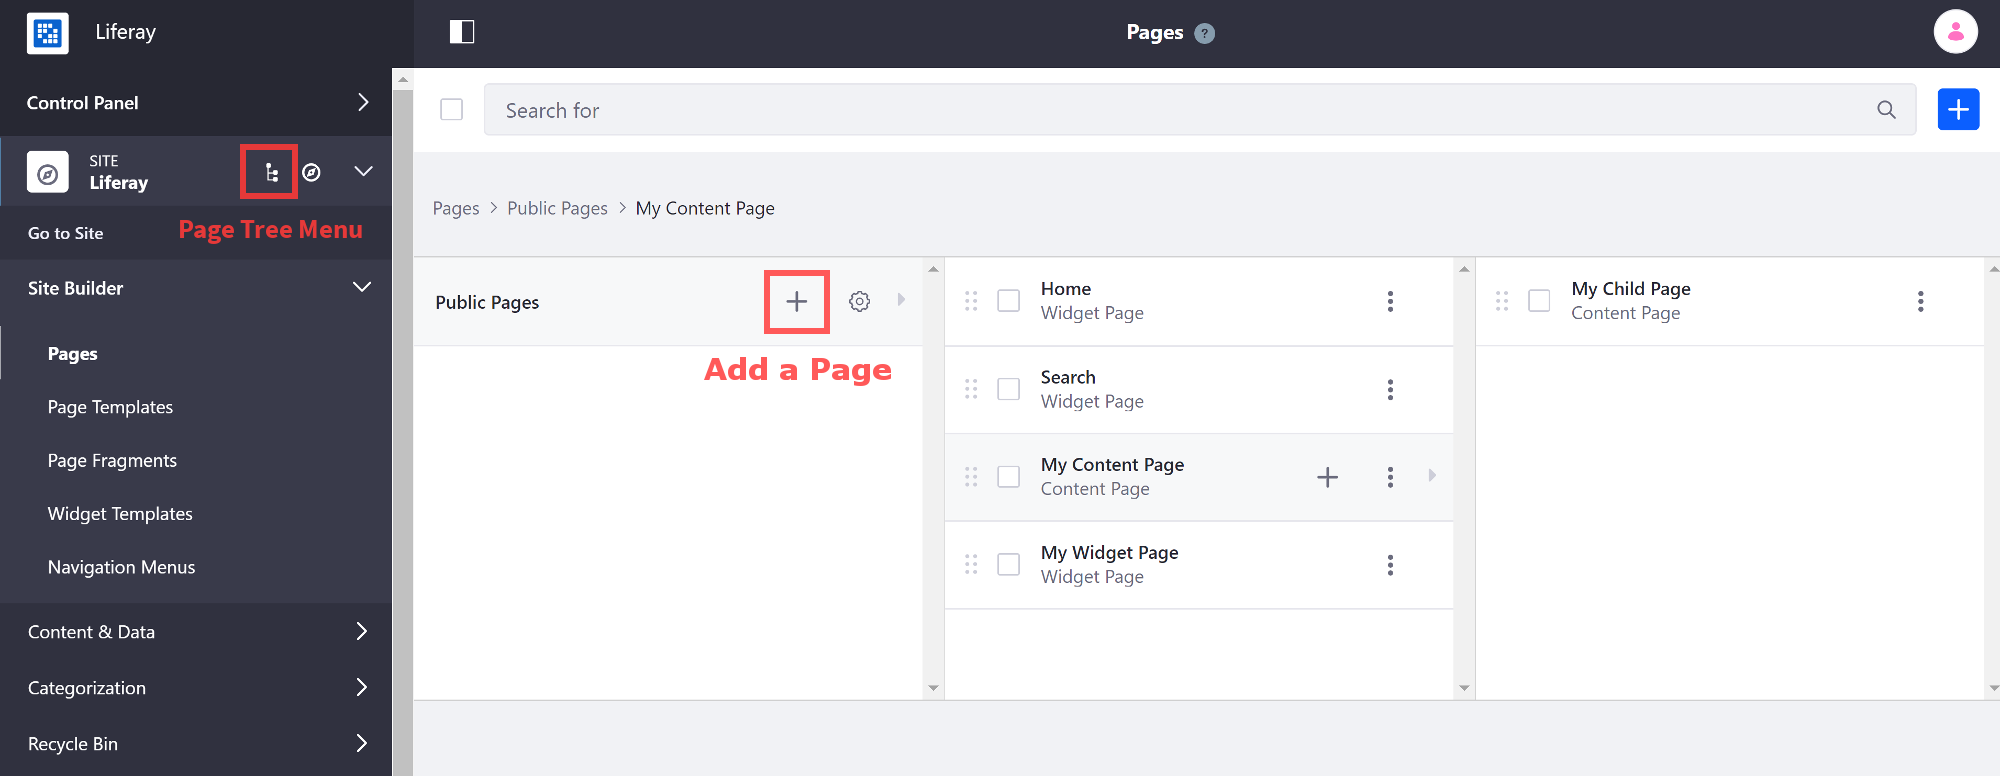
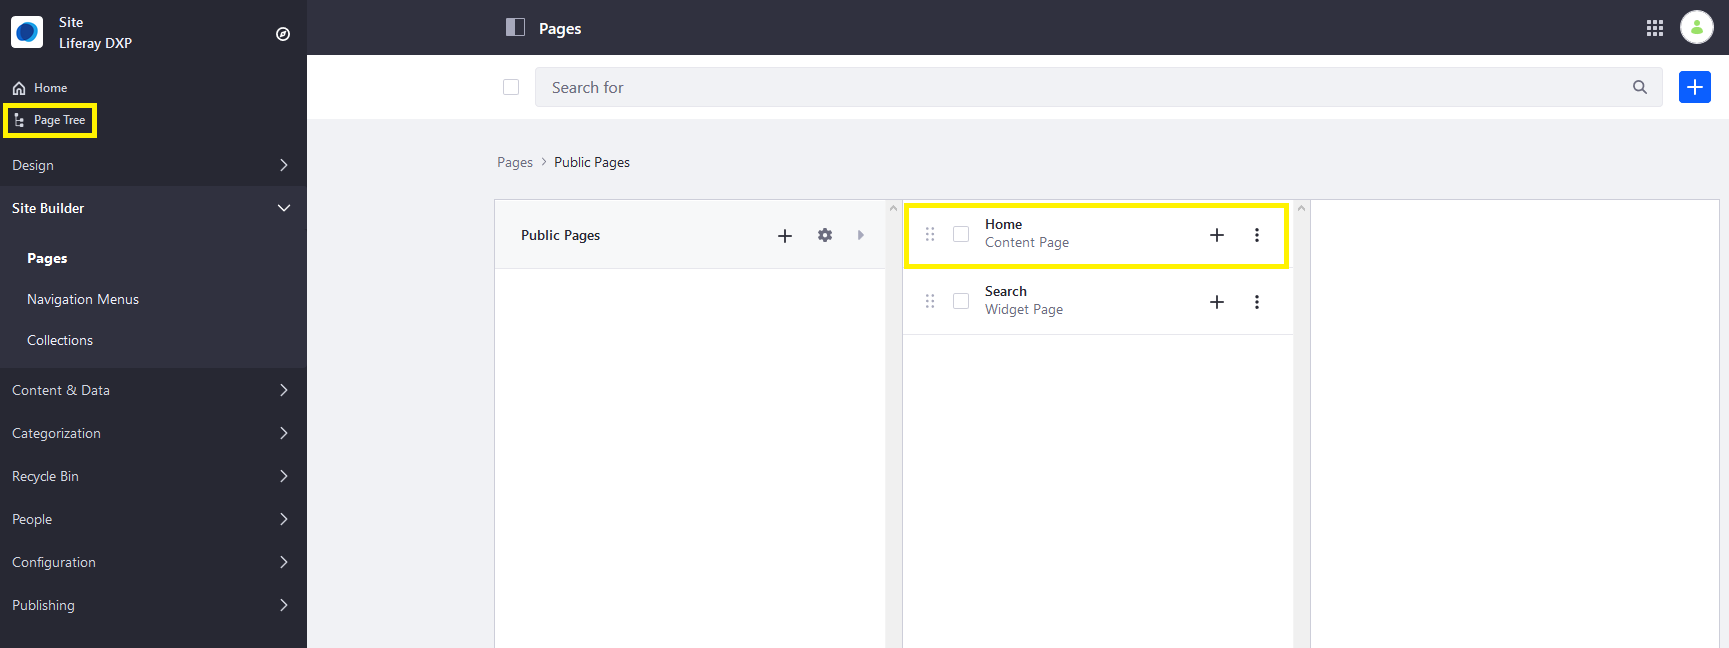
LRDOCS-7549 - resolve Landing page conflict

diff --git a/docs/dxp/7.x/en/content-authoring-and-management/landing.html b/docs/dxp/7.x/en/content-authoring-and-management/landing.html
@@ -63,20 +63,19 @@
 					]
 				},
 				{
-					sectionName: 'Content Sets',
-					sectionURL: 'content-authoring-and-management/content_sets.html',
-					showAll: false,
+					sectionName: 'Collections',
+					sectionURL: 'content-authoring-and-management/collections.html',
 					subsections: [
 						{
-							name: 'Understanding Content Sets (Coming Soon)',
+							name: 'Understanding Collections (Coming Soon)',
 							url: ''
 						},
 						{
-							name: 'Manually and Dynamically Creating a Content Set (Coming Soon)',
+							name: 'Manually and Dynamically Creating a Collections (Coming Soon)',
 							url: ''
 						},
 						{
-							name: 'Driving Personalization with Content Sets (Coming Soon)',
+							name: 'Driving Personalization with Collections (Coming Soon)',
 							url: ''
 						},
 					]

diff --git a/docs/dxp/7.x/en/site-building/landing.html b/docs/dxp/7.x/en/site-building/landing.html
@@ -67,8 +67,16 @@
 					showAll: false,
 					subsections: [
 						{
-							name: 'Configuring Site Navigation (Coming Soon)',
-							url: ''
+							name: 'Configuring Site Navigation',
+							url: 'site-building/site-navigation/configuring-site-navigation.html'
+						},
+						{
+							name: 'Using Navigation Menus',
+							url: 'site-building/site-navigation/using-navigation-menus.html'
+						},
+						{
+							name: 'Navigation Menu Widget Reference',
+							url: 'site-building/site-navigation/navigation-menu-widget-reference.html'
 						},
 					]
 				},

diff --git a/docs/dxp/7.x/en/site-building/site-navigation/using-navigation-menus.md b/docs/dxp/7.x/en/site-building/site-navigation/using-navigation-menus.md
@@ -1,0 +1,87 @@
+# Using Navigation Menus
+
+Users can create _Navigation Menus_ which groups the desired site pages. For example, users can create a _Navigation Menu_ which contains all the child pages of a given page. They can then add this menu using the _Navigation Menu_ widget to the parent page; that way, site visitors can quickly reach a particular child page.
+
+## Creating Navigation Menus
+
+To create a new _Navigation Menu_:
+
+1. Navigate to your site's _Site Administration_ &rarr; _Site Builder_ &rarr; _Navigation Menus_.
+1. Click the _Add_ button (![Add Page](../../images/icon-add.png)) to add a new menu.
+1. Enter a name: (for example: _New Menu_).
+
+    ![Create a new navigation menu.](./using-navigation-menus/images/01.png)
+
+1. Click _Save_ when finished.
+
+The new _Navigation Menu_ has been created.
+
+## Assigning Existing Pages to a Navigation Menu
+
+There are two main ways to assign existing pages to a _Navigation Menu_: click _New_ button or the _Add_ button (![Add Page](../../images/icon-add.png)).
+
+1. Click _New_ &rarr; _Page_.
+
+    ![Create a new Navigation Menu.](./using-navigation-menus/images/02.png)
+
+1. Select the pages to be included into this _Navigation Menu_; in this example, three child pages from the _Private Pages_ are to be included.
+
+    ![Select the pages to be included in the Navigation Menu.](./using-navigation-menus/images/03.png)
+
+1. Click _Add_ when finished.
+1. Verify that the new Navigation Menu has been created.
+
+    ![Verify that the new Navigation Menu has the child pages.](./using-navigation-menus/images/04.png)
+
+## Assigning New Pages to a Navigation Menu
+
+Users do not have to [create any site pages](../creating-pages/adding-pages/adding-a-page-to-a-site.md) before creating _Navigation Menus_. Rather, they can create a Navigation Menu first and then assign the pages later. If there are more than one, choose the appropriate menus.
+
+![Pages can be added automatically to existing Navigation Menus.](./using-navigation-menus/images/06.png)
+
+Moreover, by default, new pages can be automatically assigned to a _Navigation Menu_ unless the user deselects it. Users can disable this automatic assignment.
+
+To disable new pages being automatically to a _Navigation Menu_:
+
+1. Click the (![Options](../../images/icon-options.png)) icon next to the desired _Navigation Menu_ (for example, _New Menu_) then _Edit_.
+1. Click the (![Gears](../../images/icon-control-menu-gear.png)) icon.
+1. Uncheck the box.
+
+    ![Disable the setting where pages are automatically added to this Navigation Menu.](./using-navigation-menus/images/05.png)
+
+1. Click _Save_ when finished.
+
+Once disabled, users do not see the prompt to add the page to a _Navigation Menu_.
+
+![Disable the setting where pages are automatically added to this Navigation Menu.](./using-navigation-menus/images/08.png)
+
+## Marking a Navigation Menu
+
+Users can mark a Navigation Menu as one of the following:
+
+* *Primary Navigation*
+* *Secondary Navigation*
+* *Social Navigation*
+
+To mark as Navigation Menu:
+
+1. Click the (![Options](../../images/icon-options.png)) icon next to the desired _Navigation Menu_ (for example, _New Menu_)
+1. Click the desired navigation (for example, _Primary Navigation_).
+
+    ![Mark the Navigation Menu as Primary.](./using-navigation-menus/images/07.png)
+
+The Navigation Menu type is displayed in the _Marked As_ field. For more information about each type, see the [Navigation Menu Widget Reference](./navigation-menu-widget-reference.md#navigation-menu).
+
+## Deleting a Navigation Menu
+
+To delete a Navigation Menu:
+
+1. Click the (![Options](../../images/icon-options.png)) icon next to the desired _Navigation Menu_ (for example, _New Menu_) then _Delete_.
+1. Click _OK_ in the confirmation.
+
+The Navigation Menu has been deleted.
+
+## Additional Information
+
+* [Configuring Site Navigation](./configuring-site-navigation.md)
+* [Navigation Menu Widget Reference](./navigation-menu-widget-reference.md)

diff --git a/docs/dxp/7.x/en/site-building/site-navigation/navigation-menu-widget-reference.md b/docs/dxp/7.x/en/site-building/site-navigation/navigation-menu-widget-reference.md
@@ -1,0 +1,57 @@
+# Navigation Menu Widget Reference
+
+This reference article documents all the configurations on the _Navigation Menu_ widget that can be added to a Site Page. To access the _Configuration_ menu, click ![Options icon](../../images/icon-widget-options.png) at the top of the _Navigation Men_ widget.
+
+![Navigate to the Configuration menu.](./navigation-menu-widget-reference/images/01.png)
+
+## Navigation Menu
+
+Select the desired navigation menu type; the desired navigation menu type will be displayed in the Preview box.
+
+| Navigation Menu Type | Description |
+| --- | --- |
+| **Public Pages Hierarchy** | Public Pages Hierarchy is based on the default hierarchy in the Site Builder. |
+| **Primary Navigation** | Primary Navigation is the main navigation for a page. |
+| **Secondary Navigation** | Secondary Navigation is a second level of navigation, possibly a sidebar or a separate menu within a page. |
+| **Social Navigation** | Social Navigation is for menus that contain links for sharing content on social media or similar tasks. |
+  
+Alternately, users can choose a _Navigation Menu_ by clicking the _Select_ button.
+
+![Select the type of Navigation Menu.](./navigation-menu-widget-reference/images/02.png)
+
+## Display Templates
+
+The *Display Template* option lets you select an [Widget Template](../displaying-content/customizing-widgets/styling-widgets-with-widget-templates.md) for Navigation Menus. Users can choose from one of the following:
+
+![Select the Display Template.](./navigation-menu-widget-reference/images/03.png)
+
+| Display Template | Description |
+| --- | --- |
+| **List Menu** | Displays all the items in a vertical list. |
+| **Pills Horizontal** | Displays the items horizontally and uses a button style for highlighting. |
+| **Pills Justified** | Like Pills Horizontal, but pads the items to fill out the horizontal space. |
+| **Pills Stacked** | A vertical version of the pills style. |
+| **Tabs** | Displays the items like navigation tabs. |
+| **Tabs Justified** | Navigation tabs that fill horizontal space. |
+| **Bar Minimally Styled** | A lightweight version of the default display that you see in the embedded menu on your page. |
+| **Bar Minimally Justified Styled** | Like Bar Minimally Styled with horizontal padding. |
+| **Bar Default Styled** | The default embedded menu. |
+| **Split Button Dropdowns** | Displays each item as a button with a dropdown  for multiple navigation levels. |
+
+## Menu Items to Show
+
+This section configures which pages at what level from the menu are displayed in the widget. You can choose the starting level, how many levels deep to display, and how to display sub-levels.
+
+![Select the Menu Items to Show.](./navigation-menu-widget-reference/images/04.png)
+
+| Field | Description |
+| --- | --- |
+| **Start with Menu Items In** | Select the type of Level: choose from _Level_, _Level Relative to the Current Menu Item_, or _Select Parent_.  |
+| **Number of Levels** | Select the level number to display, from _0_ to _4_. Level 0 represents the parent page, Level 1 represents the first level child page, and so forth. |
+| **Levels to Display:** | Select the number of levels to display in the navigation, from _1_ down to _Unlimited_. |
+| **Expand Sublevels:** | Select _Auto_ or _All_ from this dropdown menu; this determines if hovering the mouse over the navigation reveals navigation levels one at a time automatically or reveal all the levels at once. |
+
+## Additional Information
+
+* [Using Navigation Menus](./using-navigation-menus.md)
+* [Configuring Site Navigation](./configuring-site-navigation.md)

diff --git a/docs/dxp/7.x/en/site-building/site-navigation/managing-page-hierarchies.md b/docs/dxp/7.x/en/site-building/site-navigation/managing-page-hierarchies.md
@@ -1,0 +1,64 @@
+# Managing Page Hierarchies
+
+Using the Page Hierarchy, you create public and private pages and organize those pages in whatever order or structure that you see fit.
+
+## Creating a Page
+
+New pages are created on the _Site Builder_ &rarr; _Pages_ page in _Site Administration_. Pages can be created as _Public Pages_ which anyone can view, or _Private Pages_ which can only be viewed by Site Members. See [Adding a Page to a Site](../creating-pages/adding-pages/adding-a-page-to-a-site.md) to learn how to add a page.
+
+Now that the page is created, it appears in the hierarchy, and you can move or organize its position there.
+
+## Organizing Pages
+
+Drag and drop pages to reorder their position in the page hierarchy (and subsequently the default navigation that users see) or to nest them as sub-pages. The page at the top of the list is the first page that users see automatically when visiting your Site. You can treat this as the site's landing page.
+
+### Reordering Pages
+
+To reorder your pages:
+
+1. Navigate to the your site's _Site Administration_.
+1. Click _Site Builder_ &rarr; _Pages_.
+
+    ![The Site Builder is where you can manage your pages.](./managing-page-hierarchies/images/01.png)
+
+1. Drag and drop _Page 2_ above _Page 3_ page.
+1. Click _Home_ to see the changes.
+
+    ![Page 2 is now before Page 3.](./managing-page-hierarchies/images/02.png)
+
+The page order has been changed.
+
+### Nesting Pages
+
+You can nest pages up to four levels. Follow the steps below:
+
+1. Navigate to the your site's _Site Administration_.
+1. Click _Site Builder_ &rarr; _Pages_.
+1. Drag and drop _Page 3_ inside _Page 2_ to nest it.
+1. Drag _Page 2_ inside _Page 1_.
+
+    ![Page 3 has been nested into page 2 which is nested in Page 1.](./managing-page-hierarchies/images/03.png)
+
+1. Click _Home_ to view the nested pages.
+
+### Public and Private Pages
+
+As noted above, Private Pages work just like Public Pages, except they can be viewed only by registered members of a Site. In the default configuration, Public Pages are at the URL `[web-address]/`**web**`/[site-name]` while Private Pages are at `[web-address]/`**group**`/[site-name]`. Other than the membership distinctions, Public and Private Pages share the same behavior.
+
+## Configuring Page Options
+
+Users can access page options by clicking on the _Options_ (![Option](../../images/icon-options.png)) icon.
+
+| Function | Description |
+| --- | --- |
+| **View** | View the selected page on the Site. |
+| **Configure** | View the Page Configuration screen. |
+| **Copy Page** | Create a new page in the current Site that duplicates the selected page. |
+| **Permissions** | Configure the page's Permissions. |
+| **Orphan Widgets** | Clears the data related to widgets that have been removed from the page. |
+| **Delete** | Deletes the page and all its data. |
+
+## Additional Information
+
+* [Using Navigation Menus](./using-navigation-menus.md)
+* [Navigation Menu Widget Reference](./navigation-menu-widget-reference.md)

diff --git a/docs/dxp/7.x/en/site-building/site-navigation/configuring-site-navigation.md b/docs/dxp/7.x/en/site-building/site-navigation/configuring-site-navigation.md
@@ -1,0 +1,44 @@
+# Configuring Site Navigation
+
+There are multiple functionalities in DXP to configure Site Navigation; users can leverage the _Navigation Menu_ application and widget, use a Page Tree, and add and manage Collections.
+
+## Using Site Builder
+
+Beginning in 7.3, we have a Home page in the DXP Guest site that is a Content Page; previously it was a Widget page.
+
+![The Home Page is now a Content Page instead of a Widget Page.](./configuring-site-navigation/images/01.png)
+
+## Managing Pages
+
+New pages are created on the _Site Builder_ &rarr; _Pages_ page in _Site Administration_. Pages can be created as _Public Pages_ which anyone can view, or _Private Pages_ which can only be viewed by Site Members. See [Adding a Page to a Site](../creating-pages/adding-pages/adding-a-page-to-a-site.md) to learn how to add a page.
+
+## Using Navigation Menus
+
+See [Using Navigation Menus](./using-navigation-menus.md) for to learn how to create Navigation Menus and deploy them on a site page. See the [Navigation Menu Widget Reference](./navigation-menu-widget-reference.md) to learn more about how to configure the _Navigation Menu_ widget.
+
+## Using the Page Tree
+
+Users can view and configure the pages in each site in a vertical hierarchy.
+
+To access the Page Tree:
+
+1. Navigate to the your site's _Site Administration_.
+1. Click _Page Tree_.
+
+    ![The Page Tree function is located in the Site Administration.](./configuring-site-navigation/images/02.png)
+
+1. The left menu displays the site's pages and child pages:
+
+    ![View each site's Page Tree](./configuring-site-navigation/images/03.png)
+
+In the Page Tree view, users are still able to add more pages or more child pages, configure a page, and toggle between Public and Private Pages.
+
+## Using Collections
+
+See [Understanding Collections](../content-authoring-and-management/collections/user-guide/README.rst) to learn more about Collections and how to create them.
+
+## Additional Information
+
+* [Adding a Page to a Site](../creating-pages/adding-pages/adding-a-page-to-a-site.md)
+* [Using Navigation Menus](./using-navigation-menus.md)
+* [Managing Page Hierarchies](./managing-page-hierarchies.md)

diff --git a/docs/dxp/7.x/en/site-building/README.rst b/docs/dxp/7.x/en/site-building/README.rst
@@ -46,7 +46,11 @@ Coming soon!
 
 Site Navigation
 ---------------
-Coming soon!
+
+-  :doc:`/site-building/site-navigation/configuring-site-navigation`
+-  :doc:`/site-building/site-navigation/managing-page-hierarchies`
+-  :doc:`/site-building/site-navigation/using-navigation-menus`
+-  :doc:`/site-building/site-navigation/navigation-menu-widget-reference`
 
 Personalizing Site Experience
 -----------------------------

diff --git a/docs/dxp/7.x/en/site-building/site_navigation.rst b/docs/dxp/7.x/en/site-building/site_navigation.rst
@@ -4,5 +4,10 @@ Site Navigation
 .. toctree::
    :maxdepth: 3
 
-.. include:: /site-building/04-site-navigation/README.rst
+    site-navigation/configuring-site-navigation.md 
+    site-navigation/managing-page-hierarchies.md
+    site-navigation/using-navigation-menus.md
+    site-navigation/navigation-menu-widget-reference.md
+
+.. include:: /site-building/site-navigation/README.rst
    :start-line: 2

diff --git a/docs/dxp/7.x/en/site-building/site-navigation/README.rst b/docs/dxp/7.x/en/site-building/site-navigation/README.rst
@@ -1,0 +1,7 @@
+Site Navigation
+===============
+
+-  :doc:`/site-building/site-navigation/configuring-site-navigation`
+-  :doc:`/site-building/site-navigation/managing-page-hierarchies`
+-  :doc:`/site-building/site-navigation/using-navigation-menus`
+-  :doc:`/site-building/site-navigation/navigation-menu-widget-reference`

diff --git a/docs/dxp/7.x/en/content-authoring-and-management/collections.rst b/docs/dxp/7.x/en/content-authoring-and-management/collections.rst
@@ -1,0 +1,12 @@
+Content Sets
+============
+
+.. toctree::
+   :maxdepth: 3
+
+   collections/user_guide.rst
+   collections/developer_guide.rst
+   collections/apis.rst
+
+.. include:: /content-authoring-and-management/collections/README.rst
+   :start-line: 2

diff --git a/docs/dxp/7.x/en/content-authoring-and-management/collections/user_guide.rst b/docs/dxp/7.x/en/content-authoring-and-management/collections/user_guide.rst
@@ -1,0 +1,10 @@
+User Guide
+==========
+
+.. toctree::
+   :maxdepth: 3
+
+   user-guide/personalization.rst
+
+.. include:: /content-authoring-and-management/collections/user-guide/README.rst
+   :start-line: 2

diff --git a/docs/dxp/7.x/en/content-authoring-and-management/README.rst b/docs/dxp/7.x/en/content-authoring-and-management/README.rst
@@ -83,8 +83,8 @@ APIs
 ~~~~
 Coming son!
 
-Content Sets
-------------
+Collections
+-----------
 
 User Guide
 ~~~~~~~~~~
